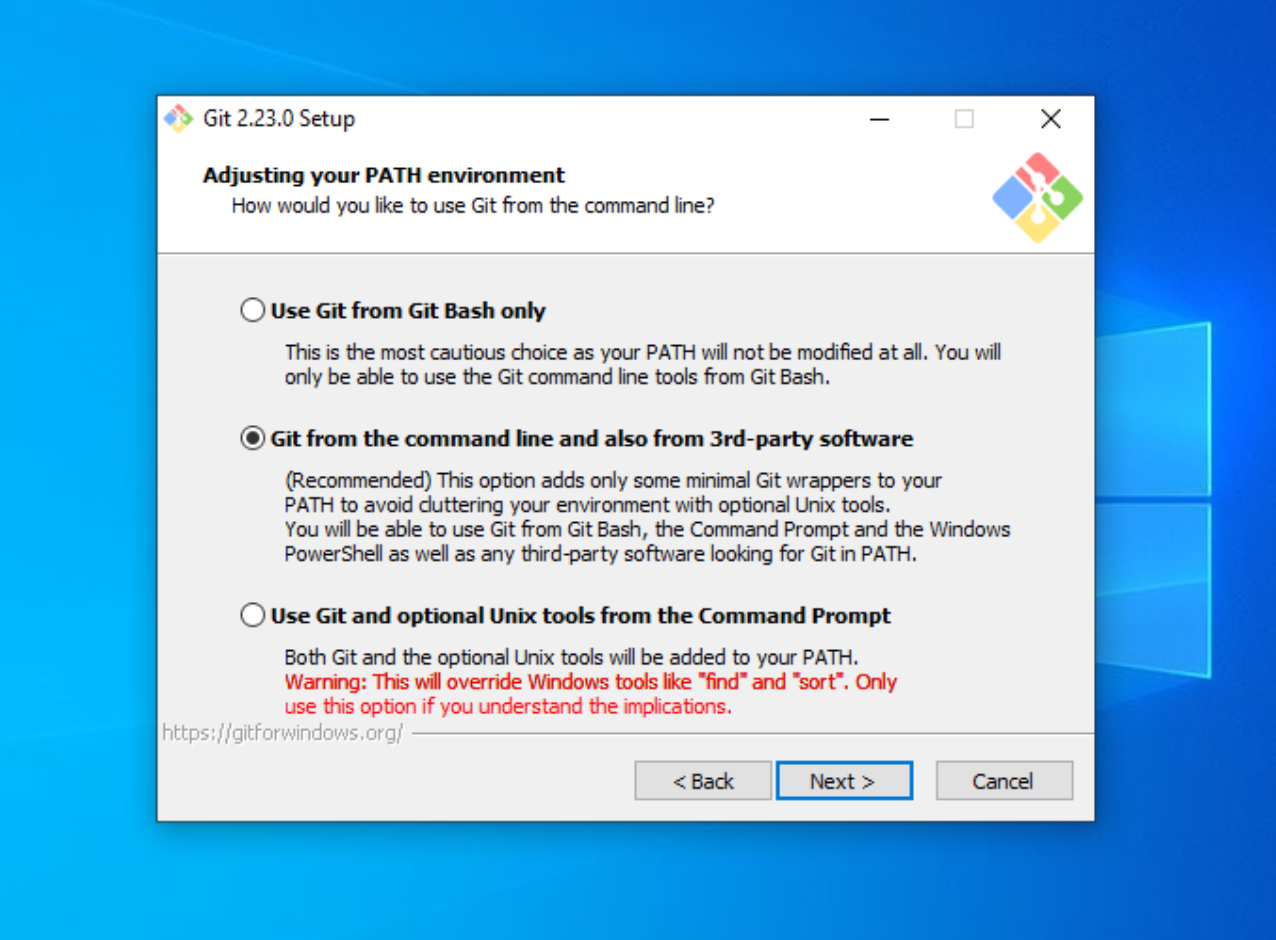
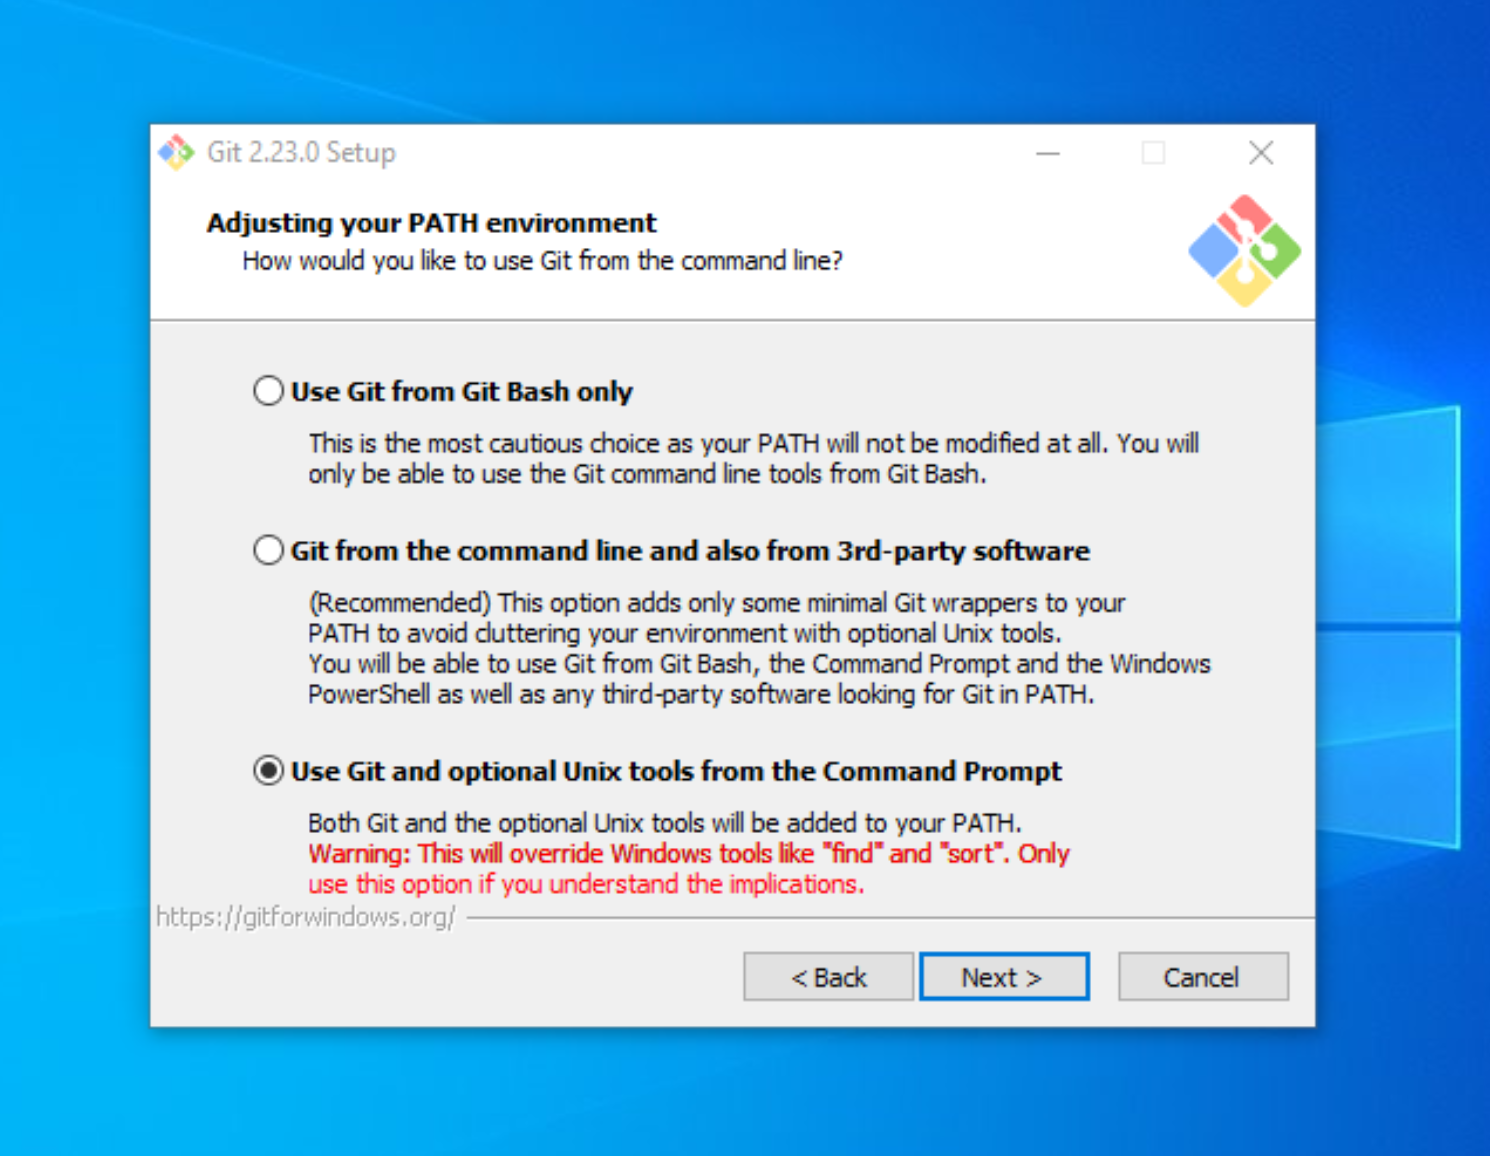
Updated git tutorial for git-bash support

Changed region(s): [[0.0917, 0.0926, 1.0, 0.8947], [0.1528, 0.3085, 0.8252, 0.617]]

diff --git a/src/2_git_install_setup.md b/src/2_git_install_setup.md
@@ -31,7 +31,7 @@ Once you have checked all of the boxes displayed in the picture, hit "Next" to m
 
 Git allows you to designate a default text editor for handling merge conflicts and other changes that you will need to make to your code. We will be using Atom for this, but will change the settings at a later point. For now, leave the default editor as Vim.
 
-The next screen allows you to set your PATH environment, which is what allows you to use Git from the command line. Make sure that the middle option is checked.
+The next screen allows you to set your PATH environment, which is what allows you to use Git from the command line. Make sure that the last option is checked.
 
 ![](./images/git/git_path.png)
 
@@ -41,7 +41,7 @@ On the next screen, make sure that "Use the OpenSSL Library" option is checked, 
 
 Make sure that check the top option ("Checkout Windows-style"), as these settings will help tell Git what type of computer you are using, and will allow it to convert files as necessary. This lets other people view your code no matter what operating system they are on.
 
-After this step, you should select the default terminal emulator that Git uses. Please ensure that you are using MinTTY.
+After this step, you should select the default terminal emulator that Git Bash uses. Please ensure that you are using MinTTY.
 
 ![](./images/git/git_terminal.png)
 
